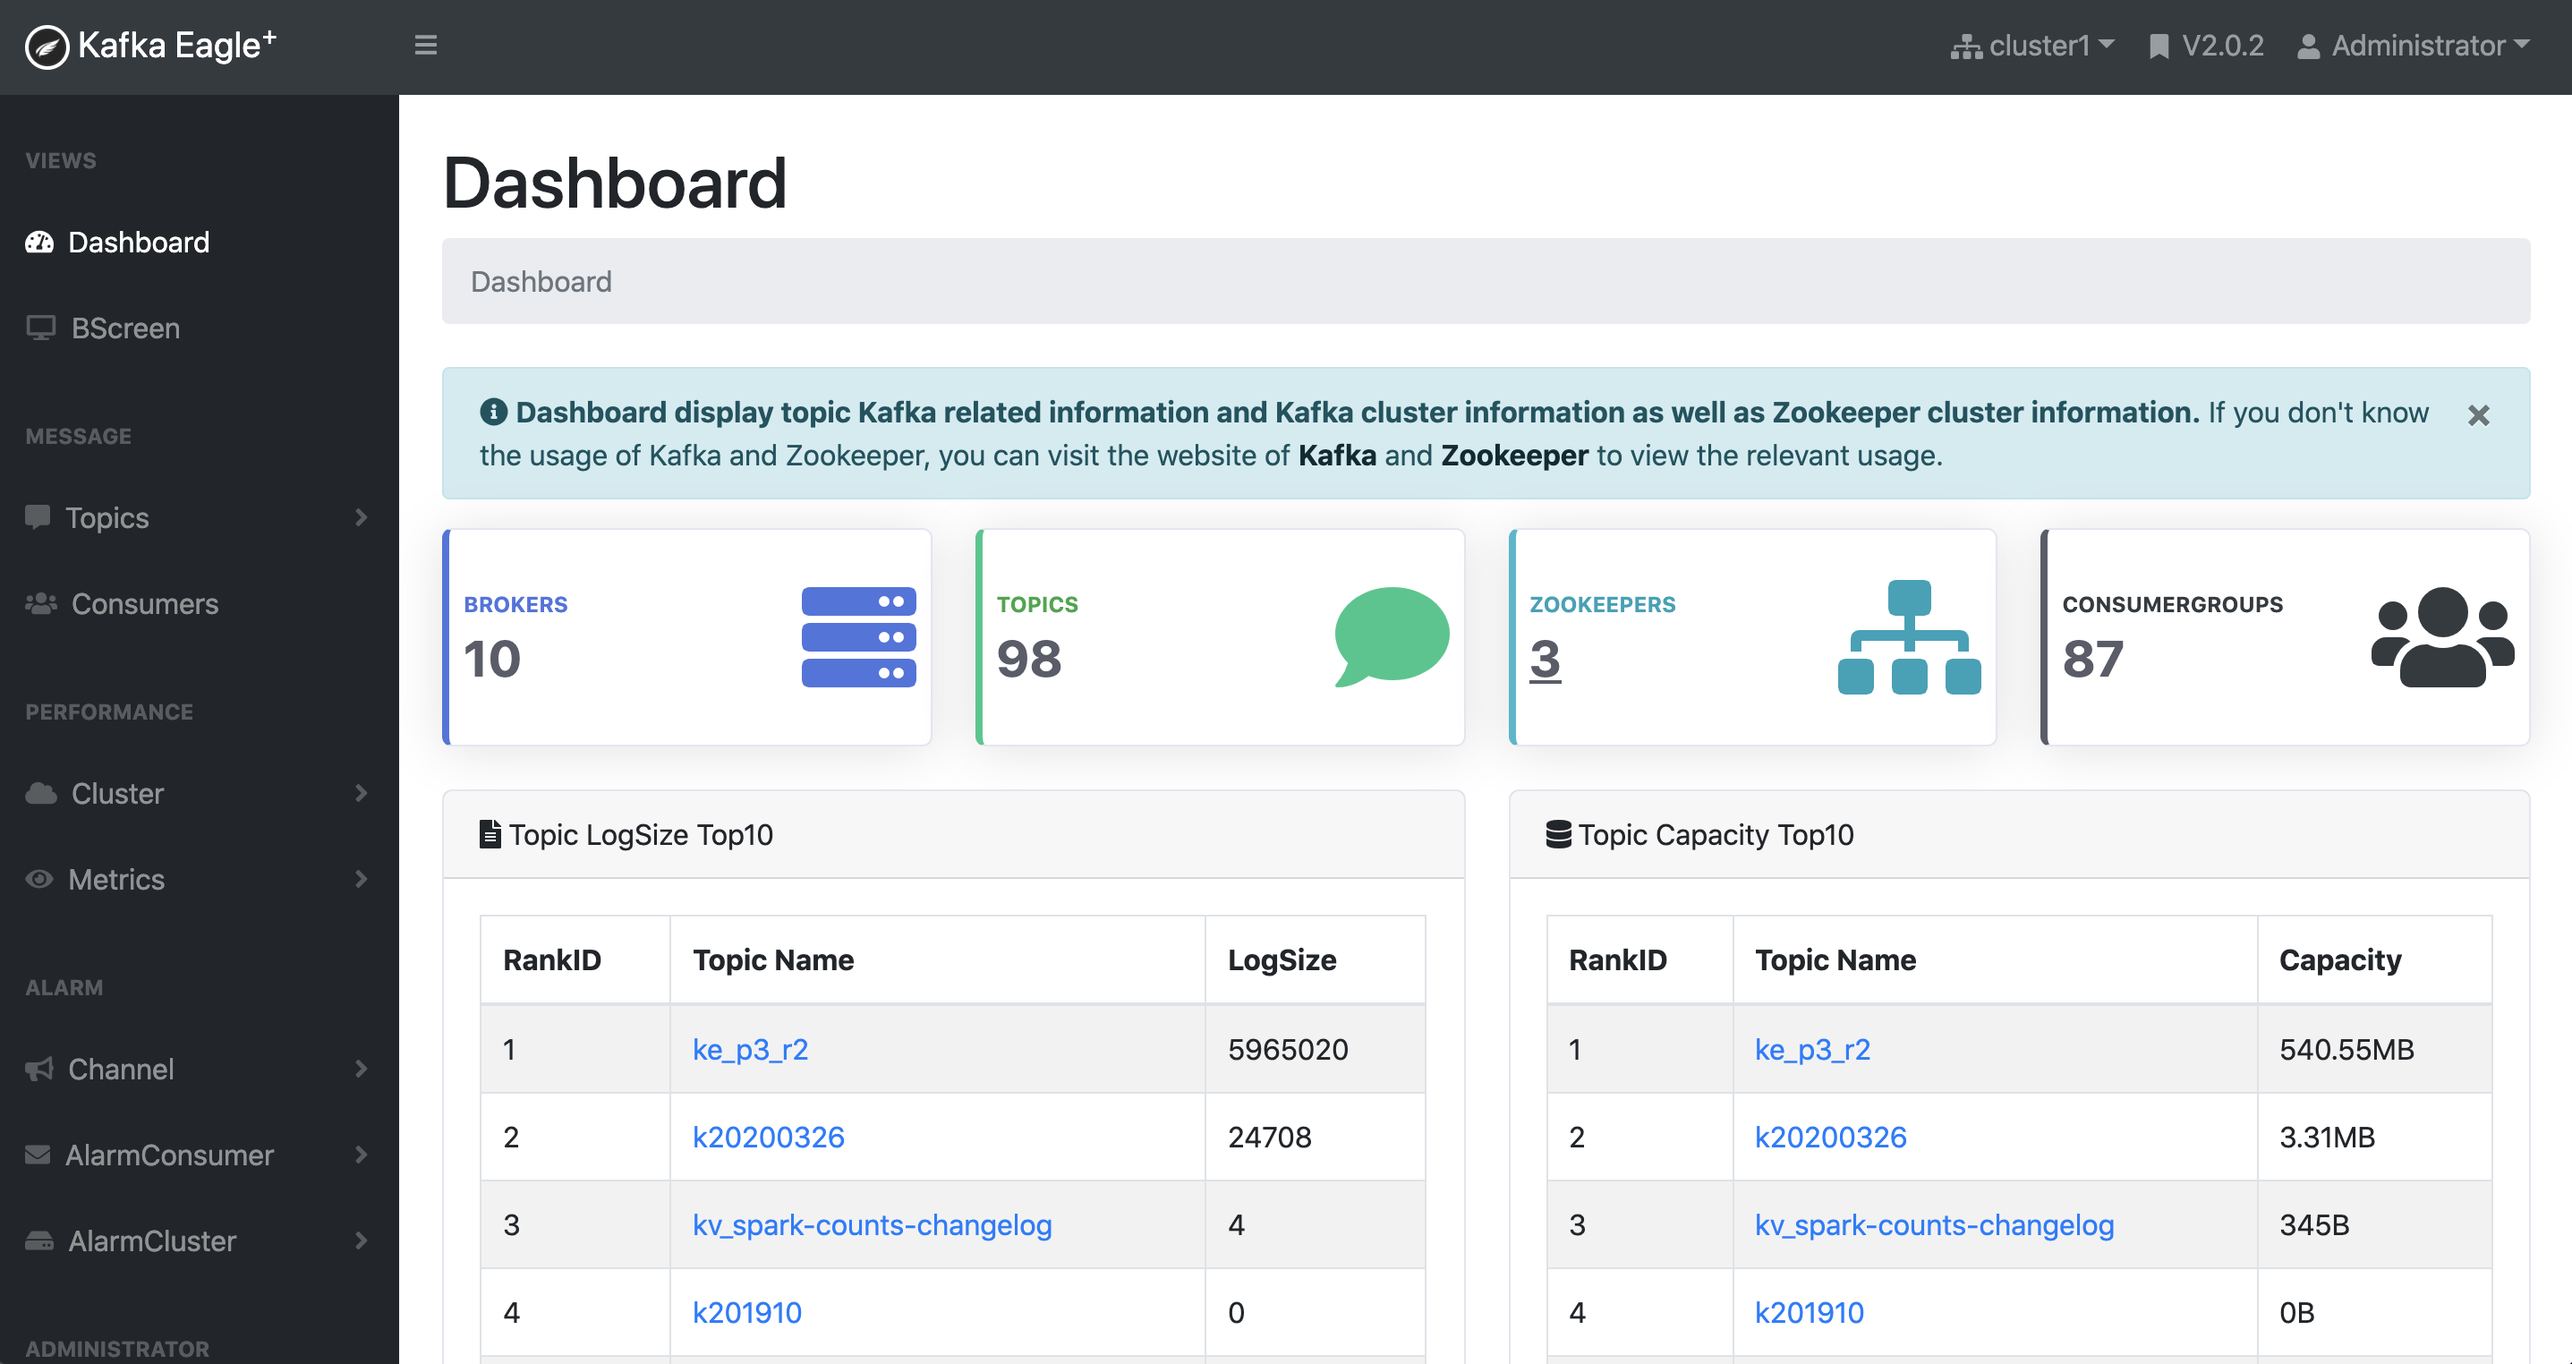
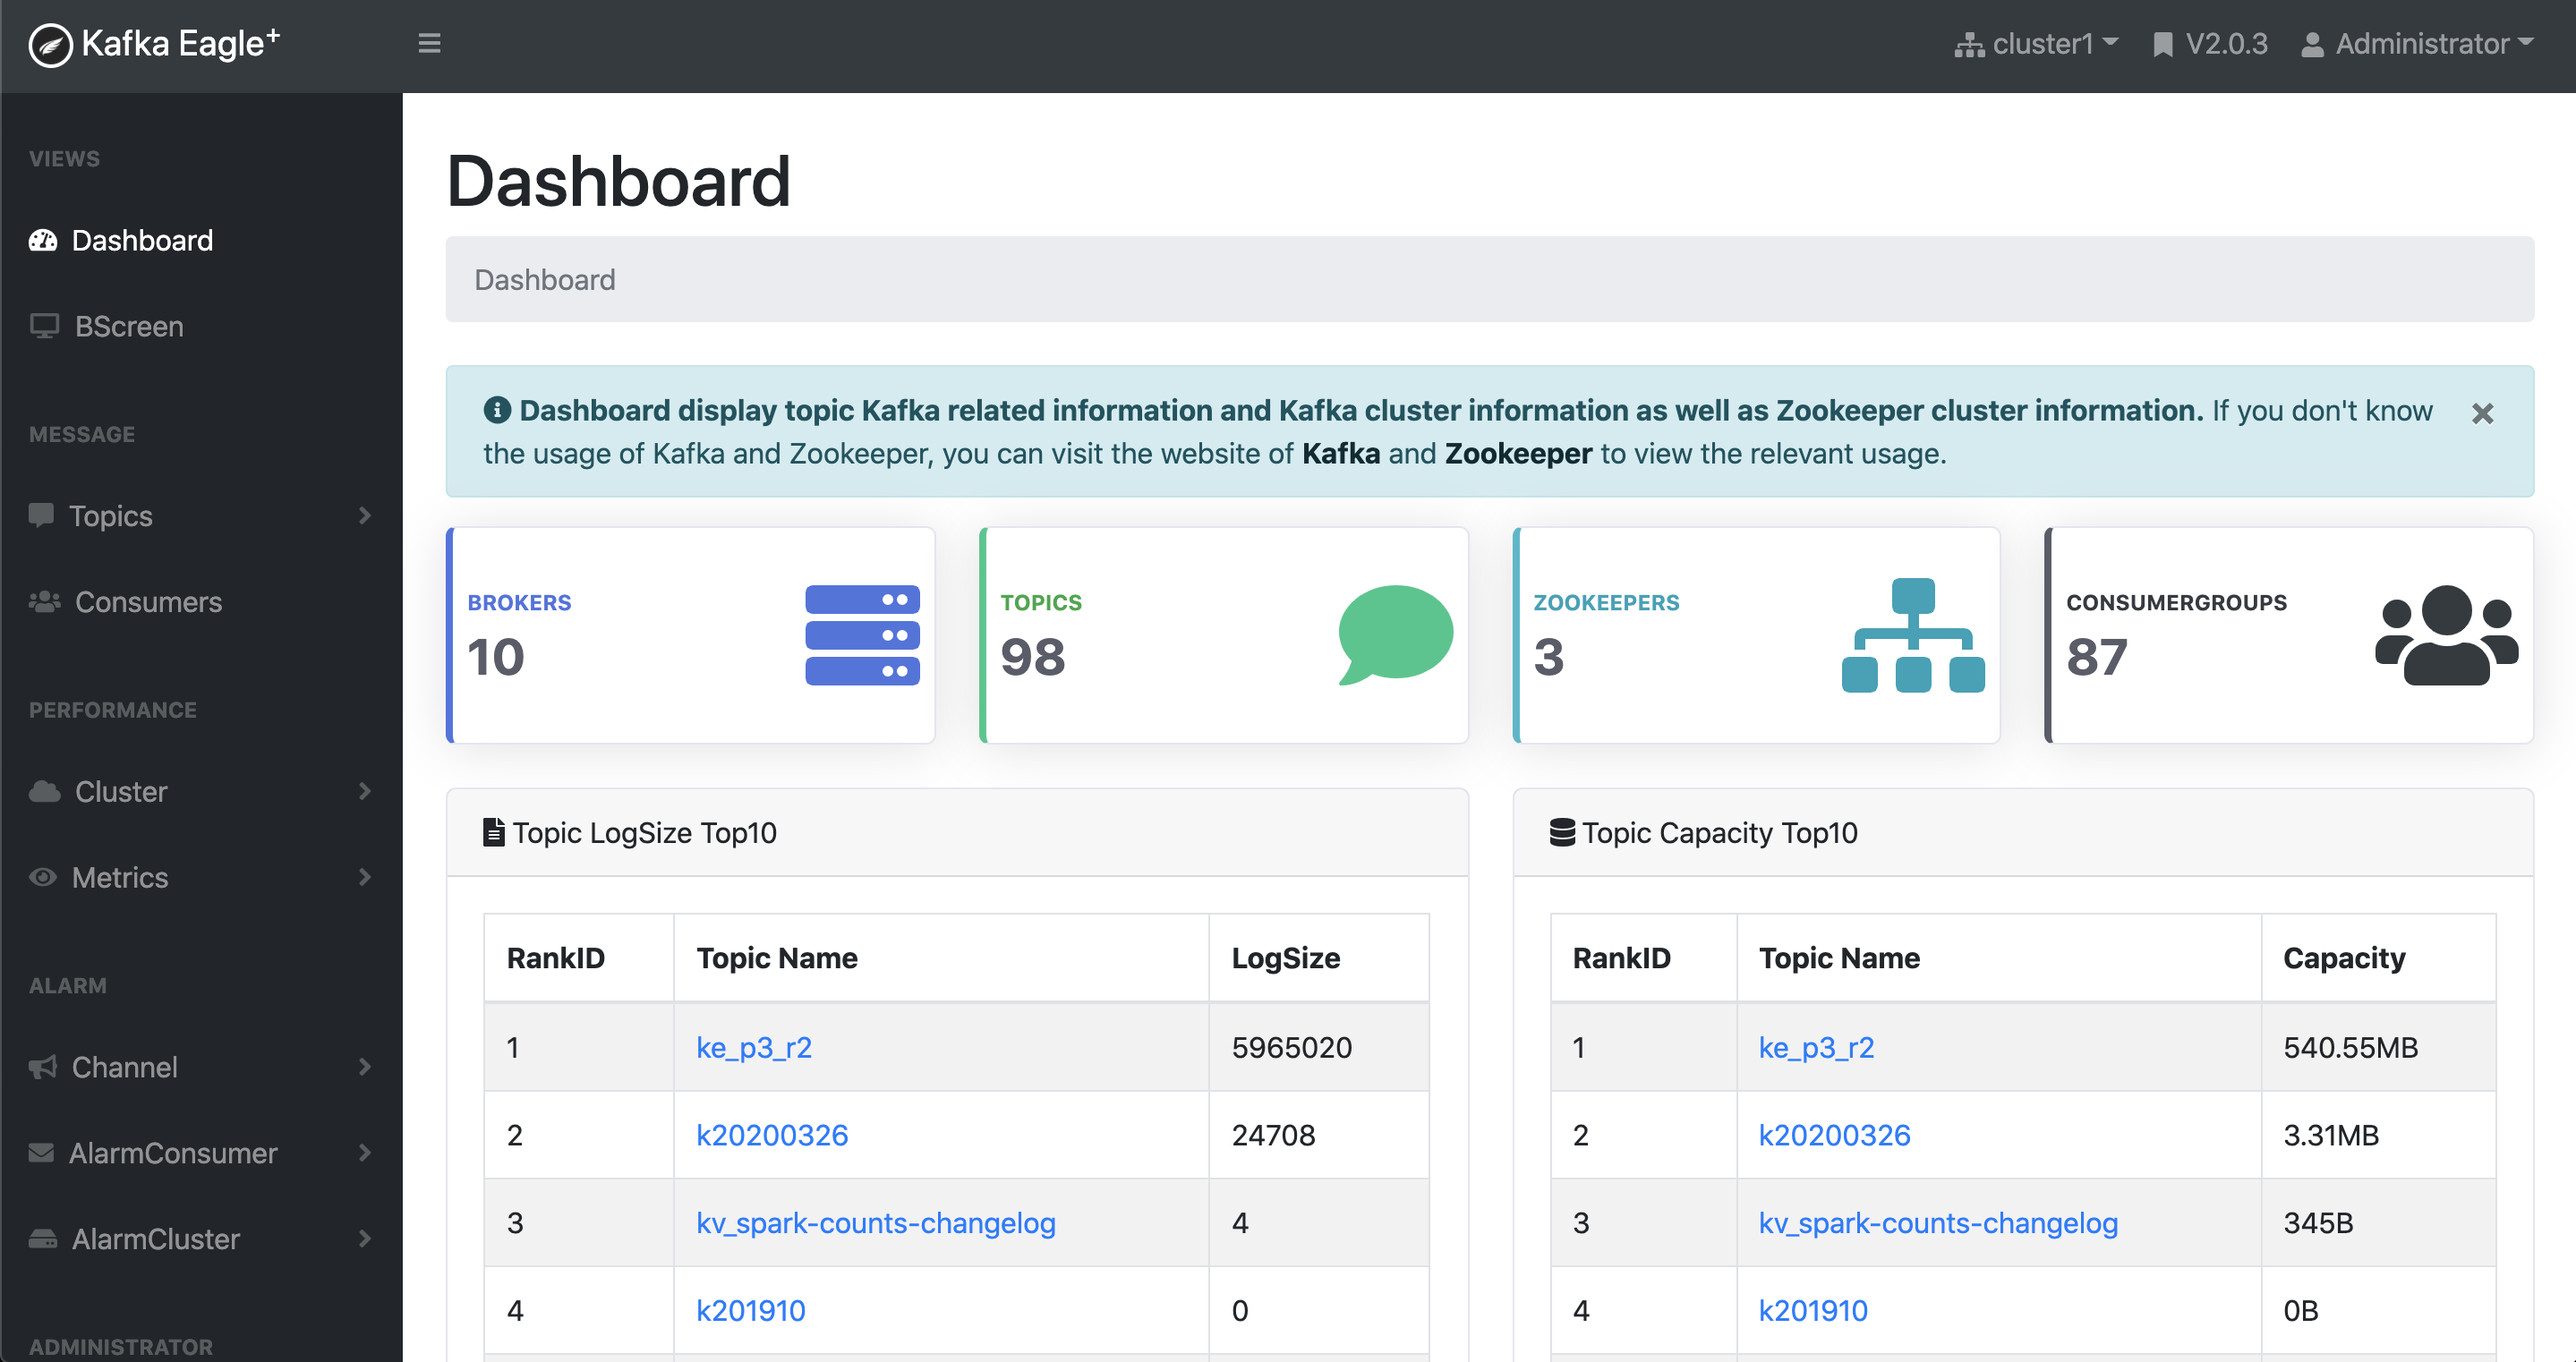
release v2.0.3

diff --git a/articles/docs/quickstart/alarm.html b/articles/docs/quickstart/alarm.html
@@ -103,7 +103,7 @@
         <h2>Support IM</h2>
         <p>In addition to supporting <code>email</code> or <code>webhook</code> alerts, Kafka Eagle also supports im
           alerts, such as <code>DingDing</code> and <code>WeChat</code>.</p>
-        <h2>Channel</h2>
+        <h2>Mail Or WebHook</h2>
         <p>First of all, it is necessary to configure alarm channels, select different alarm modes, and divide different
           alarm groups.</p>
         <img alt="mail" style="width:800px;" src="../../../images/docs/channel_mail@2x.png">
@@ -121,6 +121,10 @@ public class</span> MailController {
         return "OK";
     }
 }</code></pre></div>
+        <h2>Mail By ServerAddress</h2>
+        <p>If you have the username and password of the mail server, you can use the following method to set the information about your mail server into the following JsonObject</p>
+        <div class="highlight"><pre><code class="language-text" data-lang="text">{"host":"smtp.126.com","port":"465","sa":"ke","username":"ke@126.com","password":"*********","enable_ssl":true}</code></pre></div>
+        <img alt="dingding" style="width:800px;" src="../../../images/docs/mail_json@2x.png">
         <h2>DingDing</h2>
         <img alt="dingding" style="width:800px;" src="../../../images/docs/dingding_alert@2x.png">
         <h2>WeChat</h2>

diff --git a/index.html b/index.html
@@ -37,10 +37,10 @@
           <div class="wrap">
             <div class="text"><strong>Kafka-<span class="white-text">Eagle</span></strong></div>
             <div class="minitext">A Easy and High-Performance Monitoring System</div>
-            <div class="buttons-unit"><a href="articles/docs/documentation.html" target="_blank" class="button">Installation guidelines</a><a href="http://download.kafka-eagle.org/" target="_blank" class="button">Download (v2.0.2)</a></div>
+            <div class="buttons-unit"><a href="articles/docs/documentation.html" target="_blank" class="button">Installation guidelines</a><a href="http://download.kafka-eagle.org/" target="_blank" class="button">Download (v2.0.3)</a></div>
             <div class="admin-screenshots">
               <div class="admin-screenshot">
-                <div class="browser-mockup"><a href="#" target="_blank" class="demo-link"><img src="images/Dashboard@2x.png"><span class="demo-link-label">Kafka Eagle</span></a></div>
+                <div class="browser-mockup"><a href="#" target="_blank" class="demo-link"><img src="images/docs/Dashboard@2x.png"><span class="demo-link-label">Kafka Eagle</span></a></div>
               </div>
             </div>
           </div>

diff --git a/articles/docs/changelog/changelog.html b/articles/docs/changelog/changelog.html
@@ -97,6 +97,14 @@
         <h1>ChangeLog</h1>
         <div class="subHeader"><i class="fa fa-home"></i> > <a href="" style="text-decoration:none;">ChangeLog</a> >
           ChangeLog</div>
+          <h3>[Release V2.0.3] 2020-11-19</h3>
+          <p>[Release] Add：Release <a href="https://github.com/smartloli/kafka-eagle-bin/archive/v2.0.3.tar.gz"
+              style="text-decoration:none;" target="_blank">Kafka Eagle V2.0.2</a> version,The following changes:</p>
+          <ol>
+            <li>Add Mail Alert By ServerAddress.</li>
+            <li>Fixed KSQL Query Unicode Exception.</li>
+            <li>Add Quartz Multi-Thread.</li>
+          </ol>  
           <h3>[Release V2.0.2] 2020-09-27</h3>
           <p>[Release] Add：Release <a href="https://github.com/smartloli/kafka-eagle-bin/archive/v2.0.2.tar.gz"
               style="text-decoration:none;" target="_blank">Kafka Eagle V2.0.2</a> version,The following changes:</p>
